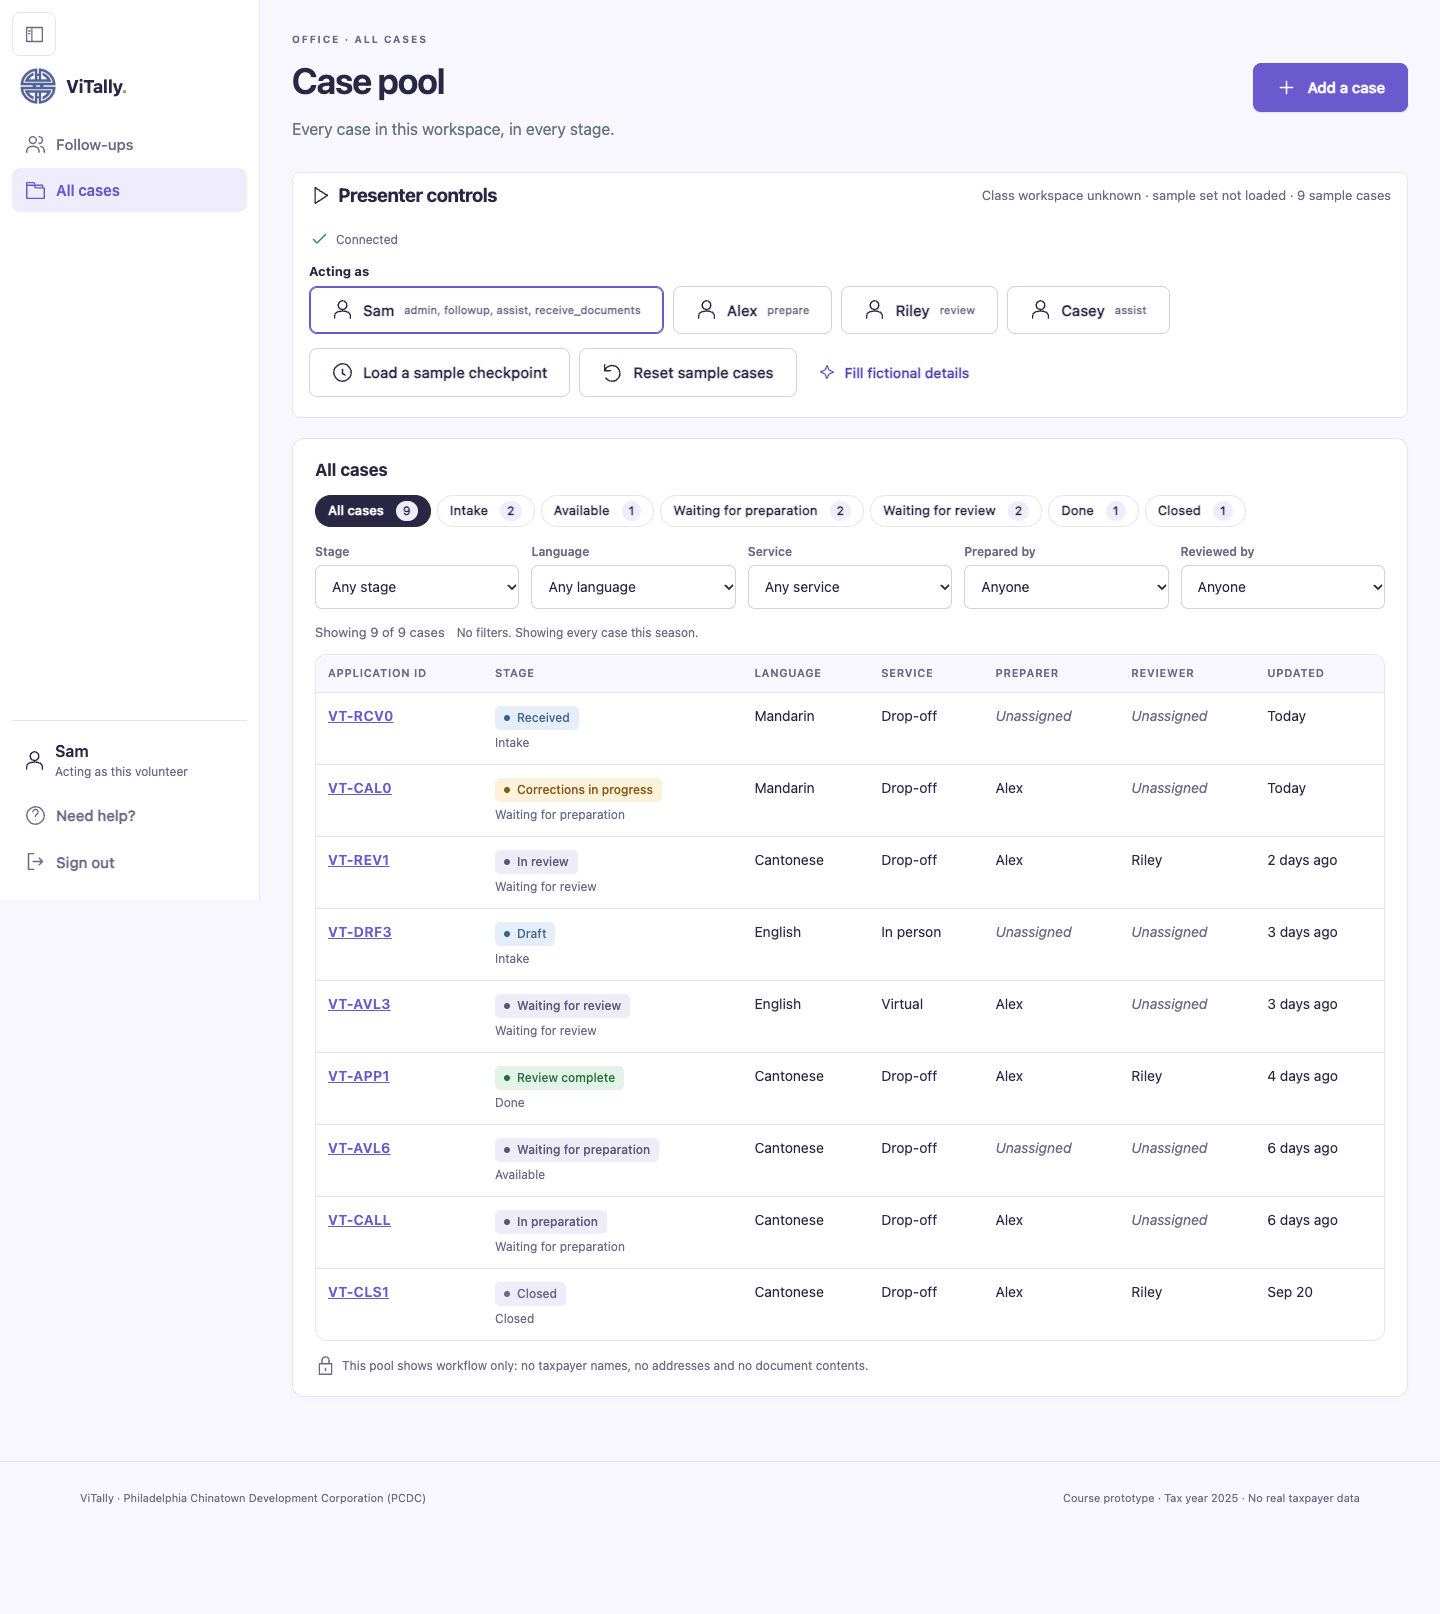
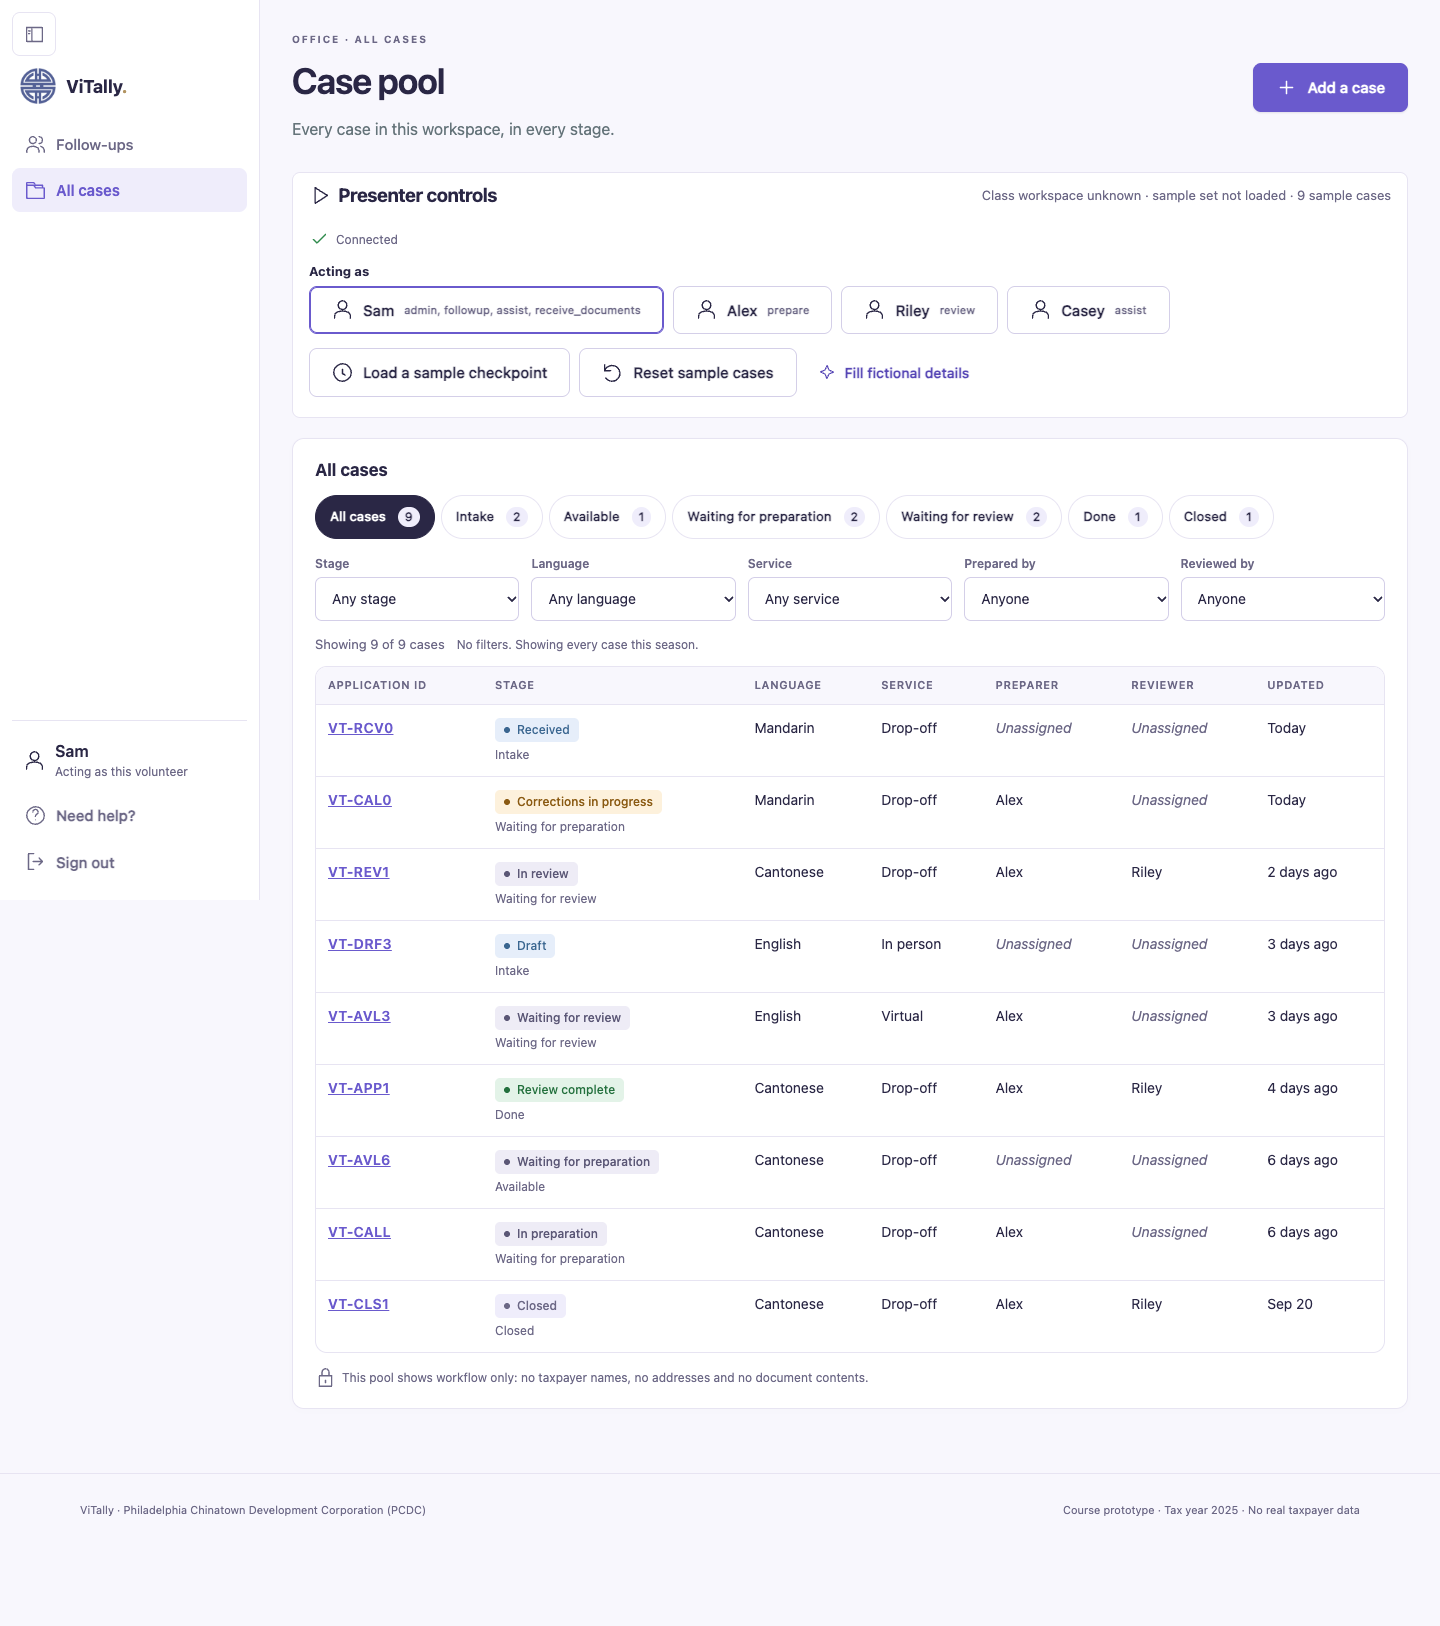
Keep the office's filter chips at 44px and size the drawer to the dynamic viewport
The queue's task-type and language chips and the pool's phase tabs now meet
the staff tap minimum inside the PR 4 block; the base chip (volunteer board)
keeps 32px. The drawer adds 100dvh after its 100vh fallback. Re-took the
follow-ups and case pool screenshots.

diff --git a/src/styles.css b/src/styles.css
@@ -3492,6 +3492,13 @@ textarea::placeholder {
 .case-pool .filter-group {
   flex-wrap: wrap;
 }
+/* The office's filter chips are staff controls: the 44px minimum, with the
+   base chip's padding so they stay pills rather than buttons. */
+.office-queue .btn.chip,
+.case-pool .btn.chip {
+  min-height: var(--vt-tap);
+  padding: 4px 14px;
+}
 /* A count inside a selected (dark) chip keeps its own light pill. */
 .office-queue .btn.chip .tab-count,
 .case-pool .btn.chip .count {
@@ -3605,7 +3612,9 @@ textarea::placeholder {
 .modal.office-drawer {
   max-width: 480px;
   height: 100vh;
+  height: 100dvh;
   max-height: 100vh;
+  max-height: 100dvh;
   border-radius: var(--vt-radius) 0 0 var(--vt-radius);
   border-right: 0;
   overflow-y: auto;
